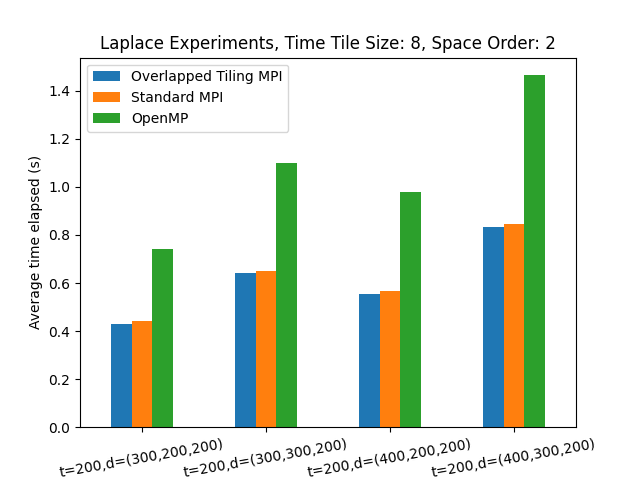
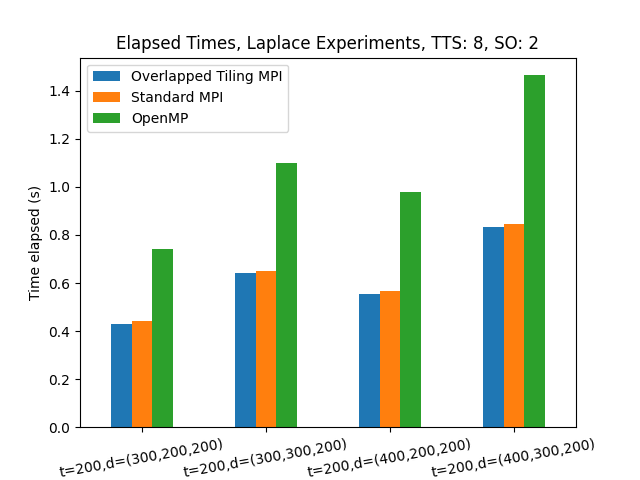
Add graphs for flop and communication times

Changed region(s): [[0.1562, 0.0625, 0.875, 0.125], [0.0312, 0.3125, 0.0625, 0.6875]]

diff --git a/results/results-2tts/postprocessing.py b/results/results-2tts/postprocessing.py
@@ -23,7 +23,9 @@ def generate_graph(space_order):
     _ = next(openmp_csv)
 
     results = []
+    proportion_results = []
     halo_results = []
+    compute_results = []
 
     for standard_row in standard_csv:
         overlapped_row = next(overlapped_csv)
@@ -37,22 +39,31 @@ def generate_graph(space_order):
         overlapped_times = []
         openmp_times = []
         
-        standard_times_halo = []
-        overlapped_times_halo = []
+        standard_proportions = []
+        overlapped_proportions = []
+
+        standard_halo = []
+        overlapped_halo = []
+        standard_compute = []
+        overlapped_compute = []
 
         for i in range(1, num_repeats):
             try:
                 elapsed = float(standard_row[headers.index("elapsed_time")])
                 halo = float(standard_row[headers.index("haloupdate0")])
                 standard_times.append(elapsed)
-                standard_times_halo.append(halo / elapsed)
+                standard_proportions.append(halo / elapsed)
+                standard_halo.append(halo)
+                standard_compute.append(elapsed - halo)
             except IndexError:
                 pass
             try:
                 elapsed = float(overlapped_row[headers.index("elapsed_time")])
                 halo = float(overlapped_row[headers.index("haloupdate0")])
                 overlapped_times.append(elapsed)
-                overlapped_times_halo.append(halo / elapsed)
+                overlapped_proportions.append(halo / elapsed)
+                overlapped_halo.append(halo)
+                overlapped_compute.append(elapsed - halo)
             except IndexError:
                 pass
             try:
@@ -69,17 +80,28 @@ def generate_graph(space_order):
         
         experiment_name = "t="+str(timesteps)+",d=("+str(x_size)+","+str(y_size)+","+str(z_size)+ ")"
         results.append([experiment_name, get_avg_time(overlapped_times), get_avg_time(standard_times), get_avg_time(openmp_times)])
-        halo_results.append([experiment_name, get_avg_time(overlapped_times_halo), get_avg_time(standard_times_halo)])
+        proportion_results.append([experiment_name, get_avg_time(overlapped_proportions), get_avg_time(standard_proportions)])
+        halo_results.append([experiment_name, get_avg_time(overlapped_halo), get_avg_time(standard_halo)])
+        compute_results.append([experiment_name, get_avg_time(overlapped_compute), get_avg_time(standard_compute)])
 
     def save_graph(results):
+        title = "Laplace Experiments, TTS: " + str(tts) + ", SO: " + str(space_order)
         df = pd.DataFrame(results, columns=['Dimensions', 'Overlapped Tiling MPI', 'Standard MPI', 'OpenMP'])
-        df.plot(x='Dimensions', kind='bar', rot=10, ylabel="Average time elapsed (s)", 
-                title="Laplace Experiments, Time Tile Size: " + str(tts) + ", Space Order: " + str(space_order))
+        df.plot(x='Dimensions', kind='bar', rot=10, ylabel="Time elapsed (s)", 
+                title="Elapsed Times, " + title)
         plt.savefig(graphs_folder + "results_" + str(space_order) + "so")
 
+        df = pd.DataFrame(proportion_results, columns=['Dimensions', 'Overlapped Tiling MPI', 'Standard MPI'])
+        df.plot(x='Dimensions', kind='bar', rot=10, ylabel="Proportion time spent on communication vs. flop (%)", title="Communication Time Proportions, " + title)
+        plt.savefig(graphs_folder + "proportions_" + str(space_order) + "so")
+
         df = pd.DataFrame(halo_results, columns=['Dimensions', 'Overlapped Tiling MPI', 'Standard MPI'])
-        df.plot(x='Dimensions', kind='bar', rot=10, ylabel="Proportion time spent on communication vs. computation (%)", title="Laplace Experiments, Time Tile Size: " + str(tts) + ", Space Order: " + str(space_order))
-        plt.savefig(graphs_folder + "comm_results_" + str(space_order) + "so")
+        df.plot(x='Dimensions', kind='bar', rot=10, ylabel="Time spent on communication (s)", title="Communication Times, " + title)
+        plt.savefig(graphs_folder + "comm_times_" + str(space_order) + "so")
+
+        df = pd.DataFrame(compute_results, columns=['Dimensions', 'Overlapped Tiling MPI', 'Standard MPI'])
+        df.plot(x='Dimensions', kind='bar', rot=10, ylabel="Time spent on floating point operations (s) ", title="Floating Point Operation Times, " + title)
+        plt.savefig(graphs_folder + "flop_times_" + str(space_order) + "so")
     
     save_graph(results)
 

diff --git a/results/results-8tts/postprocessing.py b/results/results-8tts/postprocessing.py
@@ -23,7 +23,9 @@ def generate_graph(space_order):
     _ = next(openmp_csv)
 
     results = []
+    proportion_results = []
     halo_results = []
+    compute_results = []
 
     for standard_row in standard_csv:
         overlapped_row = next(overlapped_csv)
@@ -37,22 +39,31 @@ def generate_graph(space_order):
         overlapped_times = []
         openmp_times = []
         
-        standard_times_halo = []
-        overlapped_times_halo = []
+        standard_proportions = []
+        overlapped_proportions = []
+
+        standard_halo = []
+        overlapped_halo = []
+        standard_compute = []
+        overlapped_compute = []
 
         for i in range(1, num_repeats):
             try:
                 elapsed = float(standard_row[headers.index("elapsed_time")])
                 halo = float(standard_row[headers.index("haloupdate0")])
                 standard_times.append(elapsed)
-                standard_times_halo.append(halo / elapsed)
+                standard_proportions.append(halo / elapsed)
+                standard_halo.append(halo)
+                standard_compute.append(elapsed - halo)
             except IndexError:
                 pass
             try:
                 elapsed = float(overlapped_row[headers.index("elapsed_time")])
                 halo = float(overlapped_row[headers.index("haloupdate0")])
                 overlapped_times.append(elapsed)
-                overlapped_times_halo.append(halo / elapsed)
+                overlapped_proportions.append(halo / elapsed)
+                overlapped_halo.append(halo)
+                overlapped_compute.append(elapsed - halo)
             except IndexError:
                 pass
             try:
@@ -69,17 +80,28 @@ def generate_graph(space_order):
         
         experiment_name = "t="+str(timesteps)+",d=("+str(x_size)+","+str(y_size)+","+str(z_size)+ ")"
         results.append([experiment_name, get_avg_time(overlapped_times), get_avg_time(standard_times), get_avg_time(openmp_times)])
-        halo_results.append([experiment_name, get_avg_time(overlapped_times_halo), get_avg_time(standard_times_halo)])
+        proportion_results.append([experiment_name, get_avg_time(overlapped_proportions), get_avg_time(standard_proportions)])
+        halo_results.append([experiment_name, get_avg_time(overlapped_halo), get_avg_time(standard_halo)])
+        compute_results.append([experiment_name, get_avg_time(overlapped_compute), get_avg_time(standard_compute)])
 
     def save_graph(results):
+        title = "Laplace Experiments, TTS: " + str(tts) + ", SO: " + str(space_order)
         df = pd.DataFrame(results, columns=['Dimensions', 'Overlapped Tiling MPI', 'Standard MPI', 'OpenMP'])
-        df.plot(x='Dimensions', kind='bar', rot=10, ylabel="Average time elapsed (s)", 
-                title="Laplace Experiments, Time Tile Size: " + str(tts) + ", Space Order: " + str(space_order))
+        df.plot(x='Dimensions', kind='bar', rot=10, ylabel="Time elapsed (s)", 
+                title="Elapsed Times, " + title)
         plt.savefig(graphs_folder + "results_" + str(space_order) + "so")
 
+        df = pd.DataFrame(proportion_results, columns=['Dimensions', 'Overlapped Tiling MPI', 'Standard MPI'])
+        df.plot(x='Dimensions', kind='bar', rot=10, ylabel="Proportion time spent on communication vs. flop (%)", title="Communication Time Proportions, " + title)
+        plt.savefig(graphs_folder + "proportions_" + str(space_order) + "so")
+
         df = pd.DataFrame(halo_results, columns=['Dimensions', 'Overlapped Tiling MPI', 'Standard MPI'])
-        df.plot(x='Dimensions', kind='bar', rot=10, ylabel="Proportion time spent on communication vs. computation (%)", title="Laplace Experiments, Time Tile Size: " + str(tts) + ", Space Order: " + str(space_order))
-        plt.savefig(graphs_folder + "comm_results_" + str(space_order) + "so")
+        df.plot(x='Dimensions', kind='bar', rot=10, ylabel="Time spent on communication (s)", title="Communication Times, " + title)
+        plt.savefig(graphs_folder + "comm_times_" + str(space_order) + "so")
+
+        df = pd.DataFrame(compute_results, columns=['Dimensions', 'Overlapped Tiling MPI', 'Standard MPI'])
+        df.plot(x='Dimensions', kind='bar', rot=10, ylabel="Time spent on floating point operations (s) ", title="Floating Point Operation Times, " + title)
+        plt.savefig(graphs_folder + "flop_times_" + str(space_order) + "so")
     
     save_graph(results)
 
